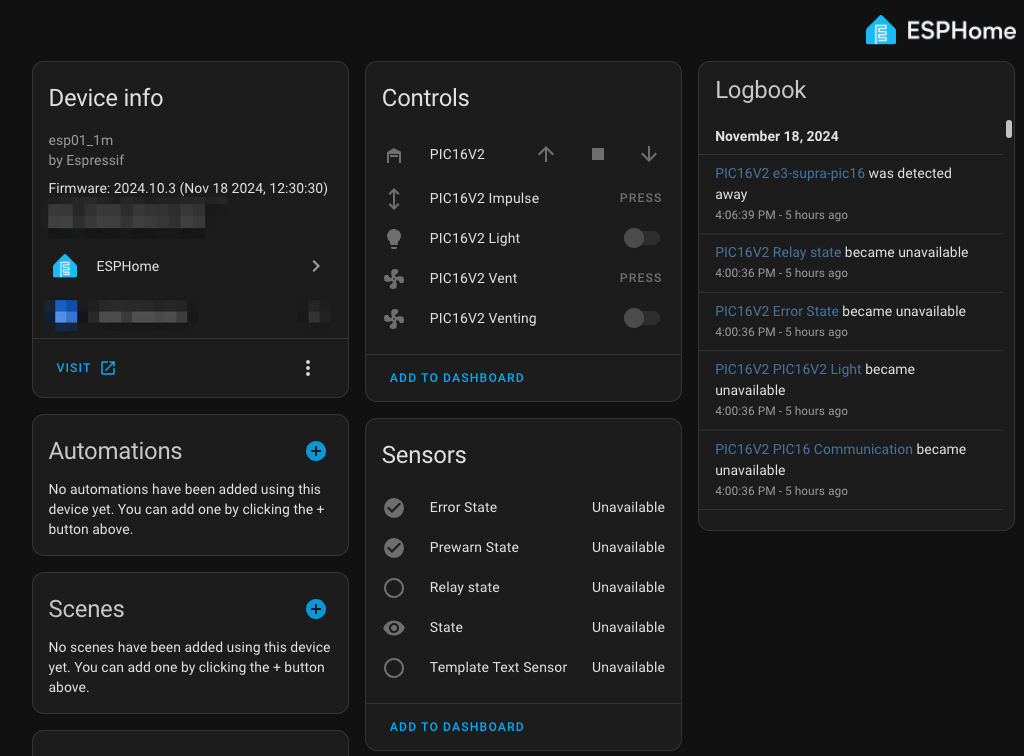
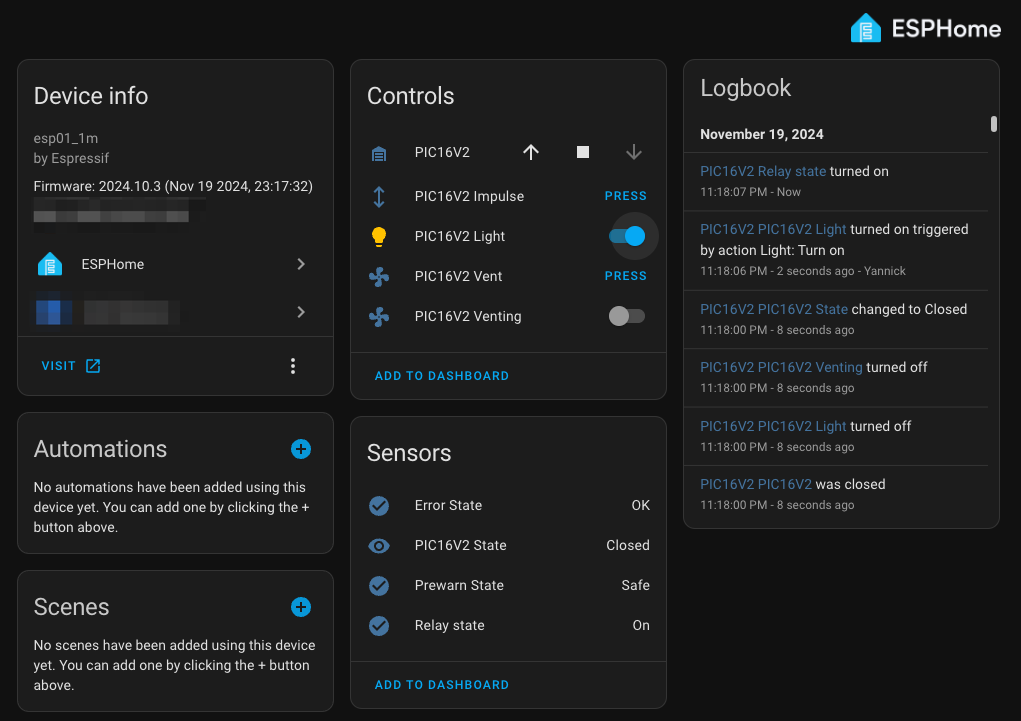
Set V2 information in PIC16 main.h Add a configuration variable in the uapbridge_pic16 component to the the PIC16 version. Add a logic to use the soft stop instead of the emergency stop.

diff --git a/esphome/components/uapbridge_pic16/uapbridge_pic16.cpp b/esphome/components/uapbridge_pic16/uapbridge_pic16.cpp
@@ -39,12 +39,15 @@ void UAPBridge_pic16::action_close() {
 
 void UAPBridge_pic16::action_stop() {
   ESP_LOGD(TAG, "Action: stop called");
-  // add logic to call the soft_stop based on config Variable
-  this->actual_action = hoermann_action_stop;
+  if (this->pic16_version > 1) {
+    this->action_soft_stop();
+  } else {
+    this->actual_action = hoermann_action_stop;
+  }
 }
 
 void UAPBridge_pic16::action_soft_stop() {
-  ESP_LOGD(TAG, "Action: stop called");
+  ESP_LOGD(TAG, "Action: soft stop called");
   this->actual_action = hoermann_action_soft_stop;
 }
 
@@ -84,6 +87,13 @@ void UAPBridge_pic16::set_venting(bool state) {
 void UAPBridge_pic16::set_light(bool state) {
   this->light_enabled = state;
   ESP_LOGD(TAG, "Light state set to %s", state ? "ON" : "OFF");
+}
+
+void UAPBridge_pic16::set_pic16_version(int value) {
+  this->pic16_version = value;
+}
+int UAPBridge_pic16::get_pic16_version() const {
+  return this->pic16_version;
 }
 
 bool UAPBridge_pic16::read_rs232() {

diff --git a/esphome/components/uapbridge_pic16/__init__.py b/esphome/components/uapbridge_pic16/__init__.py
@@ -6,6 +6,7 @@ from esphome.const import CONF_ID
 
 AUTO_LOAD = ["uapbridge"]
 MULTI_CONF = True
+CONF_PIC16_VERSION = "pic16_version"
 
 # Create UAPBridge_pic16 namespace
 uapbridge_pic16_ns = cg.esphome_ns.namespace("uapbridge_pic16")
@@ -15,6 +16,7 @@ CONFIG_SCHEMA = cv.All(
     CONFIG_SCHEMA_BASE.extend(
         {
             cv.GenerateID(): cv.declare_id(UAPBridge_pic16),
+            cv.Optional(CONF_PIC16_VERSION): cv.int_,
         }
     )
 )
@@ -30,3 +32,5 @@ async def to_code(config):
     var = cg.new_Pvariable(config[CONF_ID])
     await to_code_base(var, config)
     await uart.register_uart_device(var, config)
+    if CONF_PIC16_VERSION in config:
+        cg.add(var.set_pic16_version(config[CONF_PIC16_VERSION]))

diff --git a/esphome/components/uapbridge_pic16/uapbridge_pic16.h b/esphome/components/uapbridge_pic16/uapbridge_pic16.h
@@ -40,6 +40,8 @@ public:
   std::string get_state_string();
   void set_venting(bool state);
   void set_light(bool state);
+  void set_pic16_version(int value);
+  int get_pic16_version();
 
 protected:
   hoermann_state_t actual_state = hoermann_state_unkown;
@@ -47,6 +49,7 @@ protected:
   hoermann_action_t actual_action = hoermann_action_none;
   std::string actual_state_string = "unknown";
 
+  int pic16_version;
   uint8_t last_rx_buffer[16] = {0};
   uint8_t rx_buffer[16];
   uint8_t output_buffer[16];

diff --git a/pic16/main.c b/pic16/main.c
@@ -1,3 +1,4 @@
+// V2 Implement Soft Stop and Impulse
 
 // CONFIG1
 #pragma config FEXTOSC = OFF    // External Oscillator mode selection bits (Oscillator not enabled)

diff --git a/README.md b/README.md
@@ -30,10 +30,9 @@ This repo contains the pcb files as well as the software to build an interface d
 </p>
 
 ## esphome
-This repo also contains an esphome implementation that supports both above mentioned variants. For configuration examples see:
+This repo contains the esphome implementation that supports both above mentioned variants. For configuration examples see:
 - [pic16: preflashed configuration](esphome/preflashed_pic16.yaml)
 - [pic16: recommended configuration](esphome/recommended_pic16.yaml)
-Replace Picture with one of a working board.
 <p align="center">
     <img src="docs/esphome1.png?raw=true">
 </p>
@@ -63,6 +62,7 @@ The legacy code can be found on the [original repository](https://github.com/ste
 All needed details to assemble you PCB are available in the board folder.
 You can also do a jump start purchasing a fully Assembled and tested PCB
 ### 🚀 Fully Assembled PCB are for Sales on [Tindie](https://www.tindie.com/products/14yannick/uapbridge_pic16/)
+The boards sold on tindie are preflased with pic16 v2 therefore support soft stop and impulse command.
 1. Get a pcb
     * Optionally, get BME280 sensor pcb
     * Supply pcb with 24V via pins 2 & 3 of `J1`
